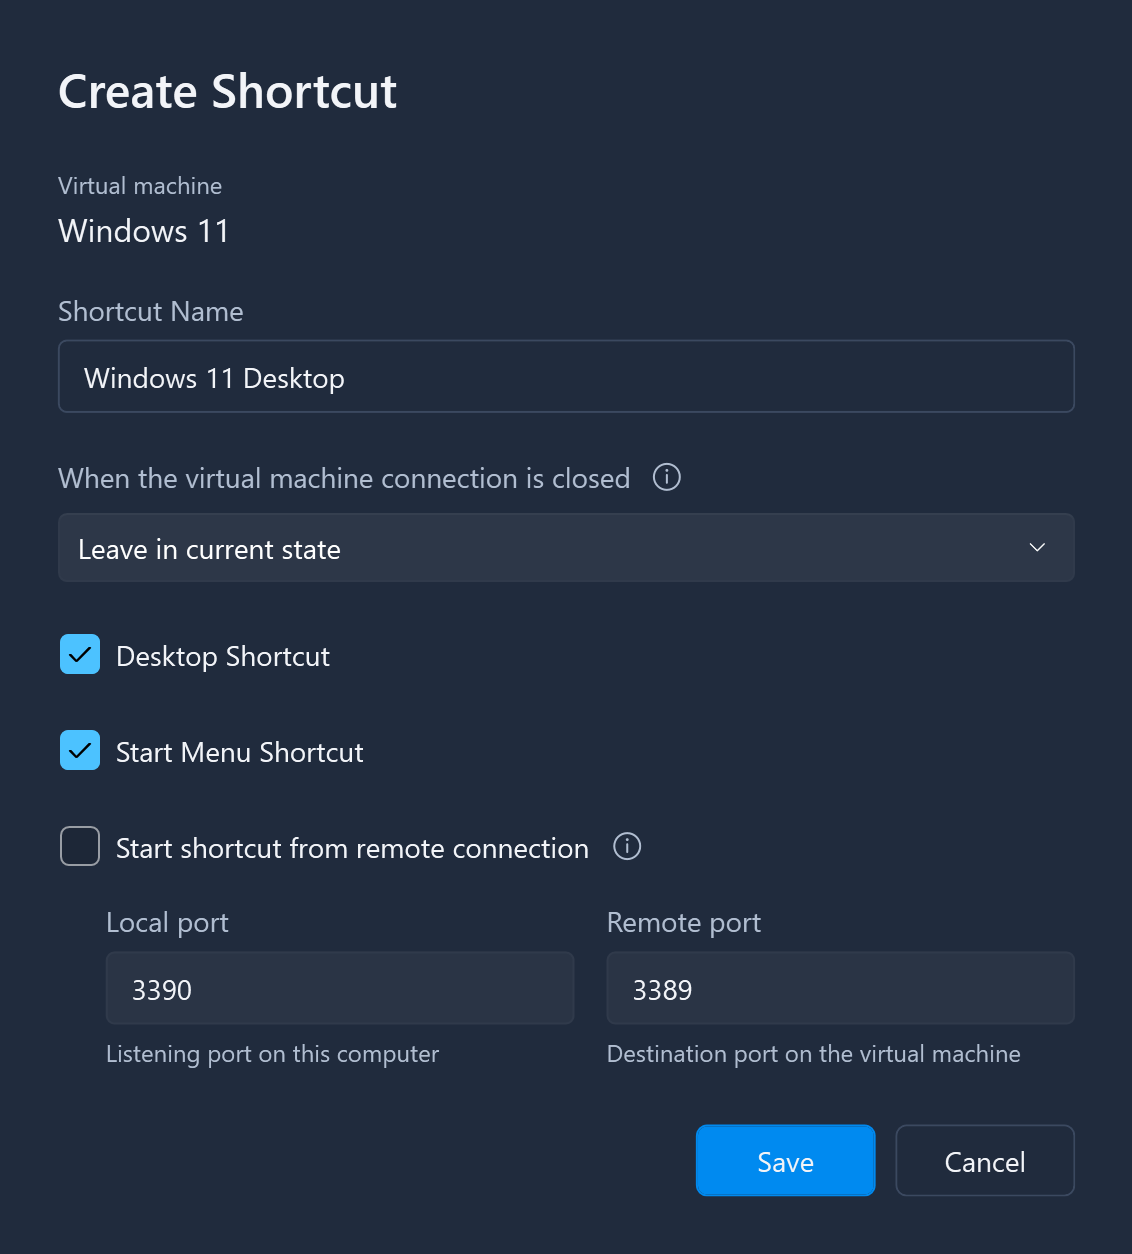
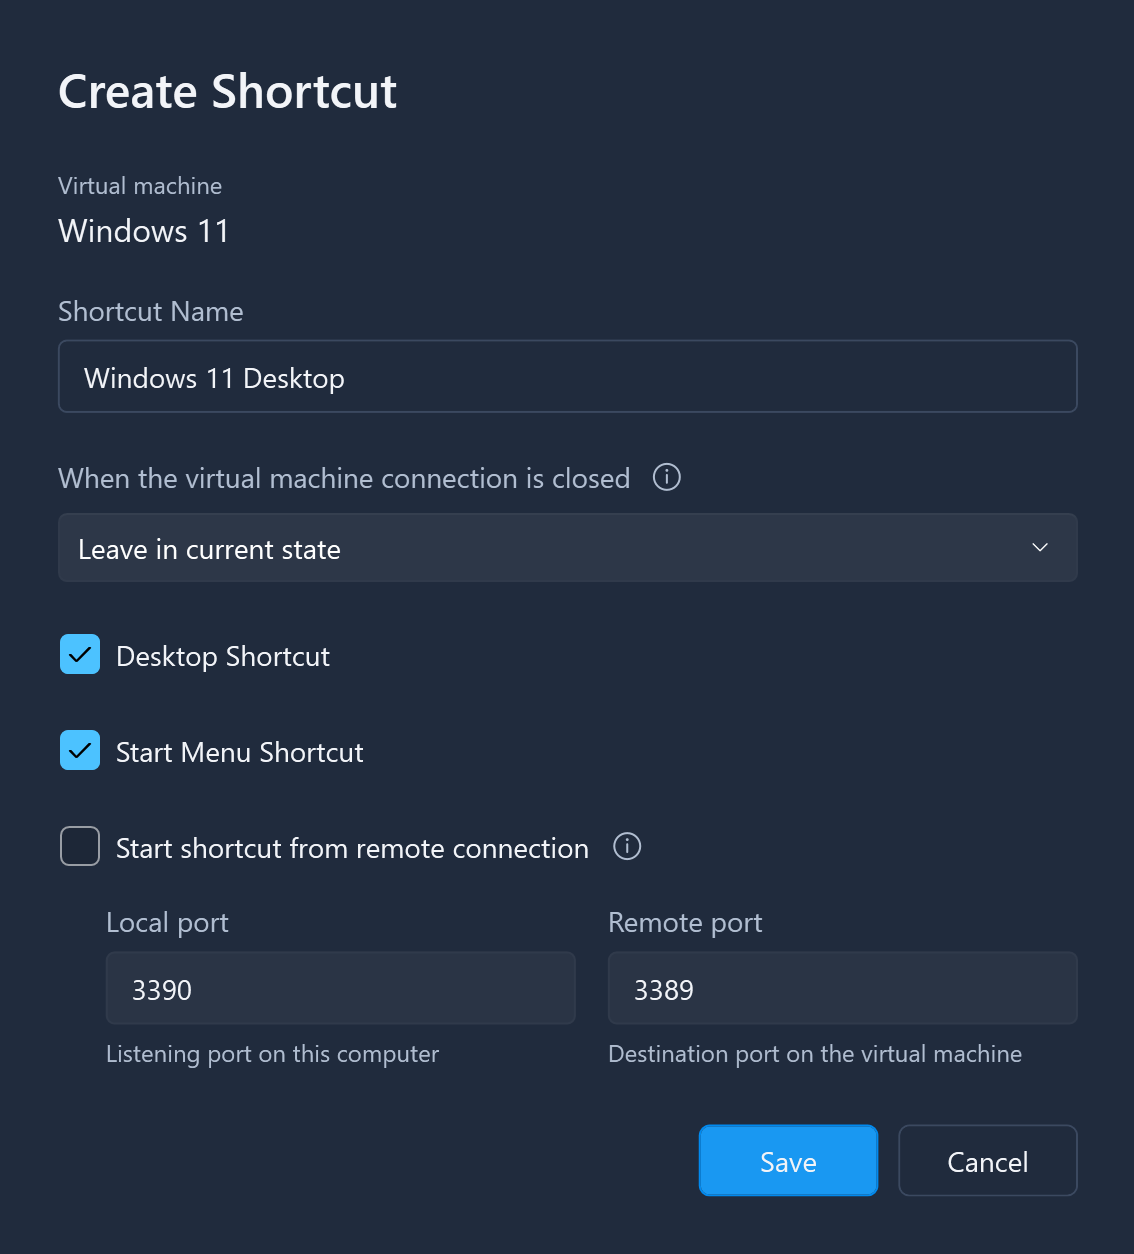
Update website for Hyper-V Launcher 1.0.5

diff --git a/guide.html b/guide.html
@@ -13,10 +13,10 @@
     </script>
     <meta name="viewport" content="width=device-width, initial-scale=1">
     <title>Hyper-V Launcher Guide — Create &amp; Manage VM Shortcuts</title>
-    <meta name="description" content="Set up Hyper-V Launcher 1.0.3: dashboard, VM shortcuts, remote connections, activity history, automatic actions, and support archives.">
+    <meta name="description" content="Set up Hyper-V Launcher 1.0.5: dashboard, VM shortcuts, remote connections, activity history, automatic actions, and support archives.">
     <meta name="theme-color" content="#ffffff">
     <link rel="stylesheet" href="styles.css">
-    <link rel="icon" href="favicon.ico" type="image/x-icon">
+    <link rel="icon" href="favicon.ico?v=1.0.5" type="image/x-icon">
     <link rel="canonical" href="https://hypervlauncher.andrezammit.com/guide.html">
     <meta name="robots" content="index, follow, max-image-preview:large">
     <meta property="og:type" content="website">
@@ -24,15 +24,15 @@
     <meta property="og:locale" content="en_US">
     <meta property="og:url" content="https://hypervlauncher.andrezammit.com/guide.html">
     <meta property="og:title" content="Hyper-V Launcher Guide — Create &amp; Manage VM Shortcuts">
-    <meta property="og:description" content="Set up Hyper-V Launcher 1.0.3: dashboard, VM shortcuts, remote connections, activity history, automatic actions, and support archives.">
+    <meta property="og:description" content="Set up Hyper-V Launcher 1.0.5: dashboard, VM shortcuts, remote connections, activity history, automatic actions, and support archives.">
     <meta property="og:image" content="https://hypervlauncher.andrezammit.com/Images/VirtualMachines.png">
     <meta property="og:image:type" content="image/png">
-    <meta property="og:image:width" content="2172">
-    <meta property="og:image:height" content="1406">
+    <meta property="og:image:width" content="2174">
+    <meta property="og:image:height" content="1410">
     <meta property="og:image:alt" content="Hyper-V Launcher Virtual Machines page for creating shortcuts">
     <meta name="twitter:card" content="summary_large_image">
     <meta name="twitter:title" content="Hyper-V Launcher Guide — Create &amp; Manage VM Shortcuts">
-    <meta name="twitter:description" content="Set up Hyper-V Launcher 1.0.3: dashboard, VM shortcuts, remote connections, activity history, automatic actions, and support archives.">
+    <meta name="twitter:description" content="Set up Hyper-V Launcher 1.0.5: dashboard, VM shortcuts, remote connections, activity history, automatic actions, and support archives.">
     <meta name="twitter:image" content="https://hypervlauncher.andrezammit.com/Images/VirtualMachines.png">
     <meta name="twitter:image:alt" content="Hyper-V Launcher Virtual Machines page for creating shortcuts">
     <script type="application/ld+json">
@@ -44,7 +44,7 @@
             "@id": "https://hypervlauncher.andrezammit.com/guide.html#webpage",
             "url": "https://hypervlauncher.andrezammit.com/guide.html",
             "name": "Hyper-V Launcher Guide — Create & Manage VM Shortcuts",
-            "description": "Set up Hyper-V Launcher 1.0.3: dashboard, VM shortcuts, remote connections, activity history, automatic actions, and support archives.",
+            "description": "Set up Hyper-V Launcher 1.0.5: dashboard, VM shortcuts, remote connections, activity history, automatic actions, and support archives.",
             "inLanguage": "en",
             "isPartOf": {
                 "@id": "https://hypervlauncher.andrezammit.com/#website"
@@ -66,7 +66,7 @@
     <a class="skip-link" href="#main">Skip to content</a>
     <header class="site-header">
         <div class="wrap header-inner">
-            <a class="brand" href="index.html"><img class="brand-logo" src="Images/Logo.png" width="64" height="64" alt="">Hyper-V Launcher</a>
+            <a class="brand" href="index.html"><img class="brand-logo" src="Images/Logo.png?v=1.0.5" width="64" height="64" alt="">Hyper-V Launcher</a>
             <nav aria-label="Main navigation">
                 <a href="index.html#features">Features</a>
                 <a href="guide.html">Guide</a>
@@ -77,11 +77,12 @@
 <main id="main">
     <article class="wrap guide" id="guide">
         <h1>Hyper-V Launcher guide</h1>
-        <p class="guide-intro">Use Hyper-V Launcher 1.0.4 to manage local VMs, launch shortcuts, configure remote connections, and review activity.</p>
+        <p class="guide-intro">Use Hyper-V Launcher 1.0.5 to manage local VMs, launch shortcuts, configure remote connections, and review activity.</p>
         <nav class="guide-contents" aria-label="On this page">
             <h2>On this page</h2>
             <ul>
-                <li><a href="#version-1-0-4">What’s new in 1.0.4</a></li>
+                <li><a href="#version-1-0-5">What’s new in 1.0.5</a></li>
+                <li><a href="#version-1-0-4">Previous release: 1.0.4</a></li>
                 <li><a href="#version-1-0-3">Previous release: 1.0.3</a></li>
                 <li><a href="#dashboard">Use the dashboard and VM lists</a></li>
                 <li><a href="#requirements">Requirements and installation</a></li>
@@ -95,6 +96,16 @@
                 <li><a href="#troubleshooting">Troubleshooting</a></li>
             </ul>
         </nav>
+
+        <section class="guide-section" id="version-1-0-5">
+            <h2>What’s new in 1.0.5</h2>
+            <p>This release fixes shortcut launch prompts and makes remote connection failures easier to diagnose.</p>
+            <ul>
+                <li><strong>Shortcut launch fix:</strong> launching a shortcut no longer requests administrator privileges unnecessarily. The installed Monitor service continues to handle privileged VM operations.</li>
+                <li><strong>Clearer RDP errors:</strong> failed guest connections report the attempted addresses and remote TCP port, with checks for guest startup, Remote Desktop, firewall rules, and network reachability.</li>
+                <li><strong>Version details:</strong> product versions omit the source revision suffix, and copyright details include the current year.</li>
+            </ul>
+        </section>
 
         <section class="guide-section" id="version-1-0-4">
             <h2>What’s new in 1.0.4</h2>
@@ -132,7 +143,7 @@
                     <p>Select several rows with Ctrl or Shift, then choose <strong>Launch</strong> to launch all selected entries. Right-click a selected row to use its context menu without losing the selection. You can also double-click a row to launch it.</p>
                     <p>Guest OS information depends on what the VM reports to Hyper-V. Missing details for running VMs are refreshed in the background; refresh the list to see newly detected information. A shortcut keeps the icon saved when it was created; older shortcuts without saved icon metadata show the default icon.</p>
                 </div>
-                <a class="screenshot" href="Images/Dashboard.png" aria-label="View full-size Dashboard screenshot"><img src="Images/Dashboard.png" width="2172" height="1406" loading="lazy" alt="Dashboard showing VM overview, shortcuts, running VMs, connections, and service status"></a>
+                <a class="screenshot" href="Images/Dashboard.png" aria-label="View full-size Dashboard screenshot"><img src="Images/Dashboard.png" width="2174" height="1410" loading="lazy" alt="Dashboard showing VM overview, shortcuts, running VMs, connections, and service status"></a>
             </div>
         </section>
 
@@ -159,7 +170,7 @@
                     <p>Double-click the desktop shortcut or open it from the Start Menu. Hyper-V Launcher starts a stopped or saved VM and opens its connection window while startup is being confirmed.</p>
                     <p>You can also select a configured shortcut on the <strong>Shortcuts</strong> page and click <strong>Launch</strong>. To change its name or close action later, select it and click <strong>Edit</strong>. New shortcuts use your saved creation defaults; the dialog checks the name and remote-connection ports before saving.</p>
                 </div>
-                <a class="screenshot" href="Images/VirtualMachines.png" aria-label="View full-size Virtual Machines screenshot"><img src="Images/VirtualMachines.png" width="2172" height="1406" loading="lazy" alt="Virtual Machines page with a selected VM and the Create Shortcut control"></a>
+                <a class="screenshot" href="Images/VirtualMachines.png" aria-label="View full-size Virtual Machines screenshot"><img src="Images/VirtualMachines.png" width="2174" height="1410" loading="lazy" alt="Virtual Machines page with a selected VM and the Create Shortcut control"></a>
             </div>
         </section>
 
@@ -190,7 +201,7 @@
                     </dl>
                     <p>Click <strong>Save</strong>, then launch the configured shortcut to use the selected action. The action runs when that shortcut’s VM connection window closes. Opening a separate connection directly through Hyper-V Manager does not use the shortcut’s close action.</p>
                 </div>
-                <a class="screenshot" href="Images/CreateShortcut.png" aria-label="View full-size shortcut settings screenshot"><img src="Images/CreateShortcut.png" width="1132" height="1254" loading="lazy" alt="Shortcut dialog showing the action to perform when the virtual machine connection closes"></a>
+                <a class="screenshot" href="Images/CreateShortcut.png" aria-label="View full-size shortcut settings screenshot"><img src="Images/CreateShortcut.png" width="1134" height="1254" loading="lazy" alt="Shortcut dialog showing the action to perform when the virtual machine connection closes"></a>
             </div>
         </section>
 
@@ -220,7 +231,7 @@
                     </ul>
                     <p>These settings handle VM creation and deletion events. For machines you already have, create shortcuts from the <strong>Virtual Machines</strong> page. Automatic creation and cleanup depend on the installed <strong>Hyper-V Launcher Service</strong>.</p>
                 </div>
-                <a class="screenshot" href="Images/Settings.png" aria-label="View full-size Settings screenshot"><img src="Images/Settings.png" width="2172" height="1406" loading="lazy" alt="Settings page with automatic shortcut creation, notification, cleanup, and Windows login options"></a>
+                <a class="screenshot" href="Images/Settings.png" aria-label="View full-size Settings screenshot"><img src="Images/Settings.png" width="2174" height="1410" loading="lazy" alt="Settings page with automatic shortcut creation, notification, cleanup, and Windows login options"></a>
             </div>
         </section>
 
@@ -232,7 +243,7 @@
                     <p>Search events and filter by activity type, outcome, and time range. Select an event to open its details. Use <strong>Refresh</strong> for recent activity or <strong>Load older events</strong> when available to see earlier entries.</p>
                     <p>Check the recorded outcome and details when investigating a failed or unconfirmed operation.</p>
                 </div>
-                <a class="screenshot" href="Images/Events.png" aria-label="View full-size Events screenshot"><img src="Images/Events.png" width="2172" height="1406" loading="lazy" alt="Events page showing activity history, filters, outcomes, and expanded details"></a>
+                <a class="screenshot" href="Images/Events.png" aria-label="View full-size Events screenshot"><img src="Images/Events.png" width="2174" height="1410" loading="lazy" alt="Events page showing activity history, filters, and recorded outcomes"></a>
             </div>
         </section>
 
@@ -265,7 +276,7 @@
     </article>
 </main>
     <footer class="wrap site-footer">
-        <a class="brand" href="index.html"><img class="brand-logo" src="Images/Logo.png" width="64" height="64" alt="">Hyper-V Launcher</a>
+        <a class="brand" href="index.html"><img class="brand-logo" src="Images/Logo.png?v=1.0.5" width="64" height="64" alt="">Hyper-V Launcher</a>
         <p>By <a href="https://andrezammit.com">André Zammit</a></p>
     </footer>
 </body>

diff --git a/index.html b/index.html
@@ -16,7 +16,7 @@
     <meta name="description" content="Launch and manage local Hyper-V virtual machines with a dashboard, desktop shortcuts, system tray access, remote connections, and activity history. Free for Windows x64.">
     <meta name="theme-color" content="#ffffff">
     <link rel="stylesheet" href="styles.css">
-    <link rel="icon" href="favicon.ico" type="image/x-icon">
+    <link rel="icon" href="favicon.ico?v=1.0.5" type="image/x-icon">
     <link rel="canonical" href="https://hypervlauncher.andrezammit.com/">
     <meta name="robots" content="index, follow, max-image-preview:large">
     <meta property="og:type" content="website">
@@ -27,8 +27,8 @@
     <meta property="og:description" content="Launch and manage local Hyper-V virtual machines with a dashboard, desktop shortcuts, system tray access, remote connections, and activity history. Free for Windows x64.">
     <meta property="og:image" content="https://hypervlauncher.andrezammit.com/Images/Dashboard.png">
     <meta property="og:image:type" content="image/png">
-    <meta property="og:image:width" content="2172">
-    <meta property="og:image:height" content="1406">
+    <meta property="og:image:width" content="2174">
+    <meta property="og:image:height" content="1410">
     <meta property="og:image:alt" content="Hyper-V Launcher dashboard with shortcuts, running VMs, and service status">
     <meta name="twitter:card" content="summary_large_image">
     <meta name="twitter:title" content="Hyper-V Launcher — Desktop Shortcuts &amp; System Tray Access">
@@ -74,7 +74,7 @@
             "applicationCategory": "UtilitiesApplication",
             "operatingSystem": "Windows x64",
             "softwareRequirements": "Hyper-V enabled",
-            "softwareVersion": "1.0.4",
+            "softwareVersion": "1.0.5",
             "downloadUrl": "https://github.com/andrezammit/hypervlauncher-site/releases/latest/download/HyperVLauncher.Setup.exe",
             "screenshot": "https://hypervlauncher.andrezammit.com/Images/Dashboard.png",
             "author": {
@@ -102,7 +102,7 @@
     <a class="skip-link" href="#main">Skip to content</a>
     <header class="site-header">
         <div class="wrap header-inner">
-            <a class="brand" href="index.html"><img class="brand-logo" src="Images/Logo.png" width="64" height="64" alt="">Hyper-V Launcher</a>
+            <a class="brand" href="index.html"><img class="brand-logo" src="Images/Logo.png?v=1.0.5" width="64" height="64" alt="">Hyper-V Launcher</a>
             <nav aria-label="Main navigation">
                 <a href="index.html#features">Features</a>
                 <a href="guide.html">Guide</a>
@@ -115,17 +115,17 @@
             <h1 id="hero-title">Your virtual machines.<br>Ready when you are.</h1>
             <p class="intro">Launch and manage your local Hyper-V machines from one dashboard, your desktop, Start Menu, or system tray.</p>
             <a class="button" href="https://github.com/andrezammit/hypervlauncher-site/releases/latest/download/HyperVLauncher.Setup.exe">Download</a>
-            <p class="requirements">Version 1.0.4 · Windows x64 · Hyper-V required<br><a href="guide.html#version-1-0-4">What’s new in 1.0.4</a></p>
+            <p class="requirements">Version 1.0.5 · Windows x64 · Hyper-V required<br><a href="guide.html#version-1-0-5">What’s new in 1.0.5</a></p>
         </section>
         <div class="product-stage wrap">
             <a href="Images/Dashboard.png" aria-label="View full-size Hyper-V Launcher screenshot">
-                <img src="Images/Dashboard.png" width="2172" height="1406" fetchpriority="high" alt="Hyper-V Launcher dashboard with shortcuts, running VMs, VM state totals, RDP connections, and service status">
+                <img src="Images/Dashboard.png" width="2174" height="1410" fetchpriority="high" alt="Hyper-V Launcher dashboard with shortcuts, running VMs, VM state totals, RDP connections, and service status">
             </a>
         </div>
         <section class="features wrap" id="features" aria-label="Features">
             <article>
                 <h2>Shortcuts where you need them</h2>
-                <p>Create shortcuts for your virtual machines on your desktop or in the Start Menu.</p>
+                <p>Create shortcuts for your virtual machines on your desktop or in the Start Menu. Launch them without an unnecessary administrator prompt.</p>
             </article>
             <article>
                 <h2>Launch from the system tray</h2>
@@ -151,7 +151,7 @@
                 <article>
                     <h3>Follow recent activity</h3>
                     <p>Search and filter VM, shortcut, and connection events, then open an event for details. <a href="guide.html#events">Explore the Events page</a>.</p>
-                    <a class="screenshot" href="Images/Events.png" aria-label="View full-size Events screenshot"><img src="Images/Events.png" width="2172" height="1406" loading="lazy" alt="Events page with activity filters, outcomes, and event details"></a>
+                    <a class="screenshot" href="Images/Events.png" aria-label="View full-size Events screenshot"><img src="Images/Events.png" width="2174" height="1410" loading="lazy" alt="Events page with activity filters, outcomes, and event details"></a>
                 </article>
                 <article>
                     <h3>Recognize your machines</h3>
@@ -172,7 +172,7 @@
         </section>
     </main>
     <footer class="wrap site-footer">
-        <a class="brand" href="index.html"><img class="brand-logo" src="Images/Logo.png" width="64" height="64" alt="">Hyper-V Launcher</a>
+        <a class="brand" href="index.html"><img class="brand-logo" src="Images/Logo.png?v=1.0.5" width="64" height="64" alt="">Hyper-V Launcher</a>
         <p>By <a href="https://andrezammit.com">André Zammit</a></p>
     </footer>
 </body>

diff --git a/README.md b/README.md
@@ -6,11 +6,11 @@ Hyper-V Launcher makes your local Hyper-V virtual machines easier to access. Cre
 
 [Download](https://github.com/andrezammit/hypervlauncher-site/releases/latest/download/HyperVLauncher.Setup.exe) · [Visit the website](https://hypervlauncher.andrezammit.com/) · [Read the guide](https://hypervlauncher.andrezammit.com/guide.html)
 
-Version 1.0.4 · Windows x64 · Hyper-V required
+Version 1.0.5 · Windows x64 · Hyper-V required
 
-[What’s new in 1.0.4](https://hypervlauncher.andrezammit.com/guide.html#version-1-0-4)
+[What’s new in 1.0.5](https://hypervlauncher.andrezammit.com/guide.html#version-1-0-5)
 
-Version 1.0.4 improves list loading, opens VMConnect while startup is being confirmed, refreshes missing guest OS details in the background, fixes RDP address fallback and tray menu positioning, and refines the dashboard and application icons.
+Version 1.0.5 fixes unnecessary administrator prompts when launching shortcuts, explains failed RDP connections with attempted addresses and troubleshooting guidance, and simplifies displayed product versions.
 
 ## Dashboard and VM management
 

diff --git a/index.md b/index.md
@@ -7,7 +7,7 @@ Hyper-V Launcher
 
 Hyper-V Launcher is an application which makes it easier to access and manage your local Hyper-V Virtual Machines.
 
-Version **1.0.4** · [Website](https://hypervlauncher.andrezammit.com/) · [What’s new and user guide](https://hypervlauncher.andrezammit.com/guide.html#version-1-0-4)
+Version **1.0.5** · [Website](https://hypervlauncher.andrezammit.com/) · [What’s new and user guide](https://hypervlauncher.andrezammit.com/guide.html#version-1-0-5)
 
 Main Features
 -------------
